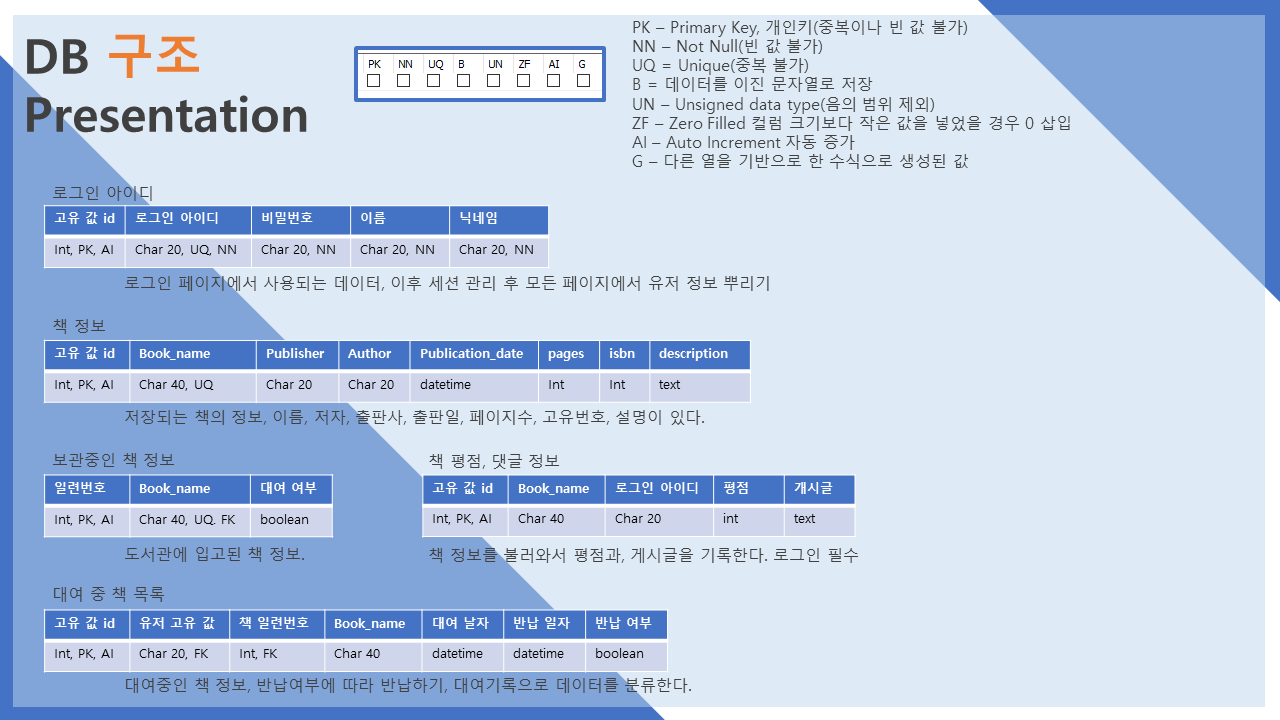
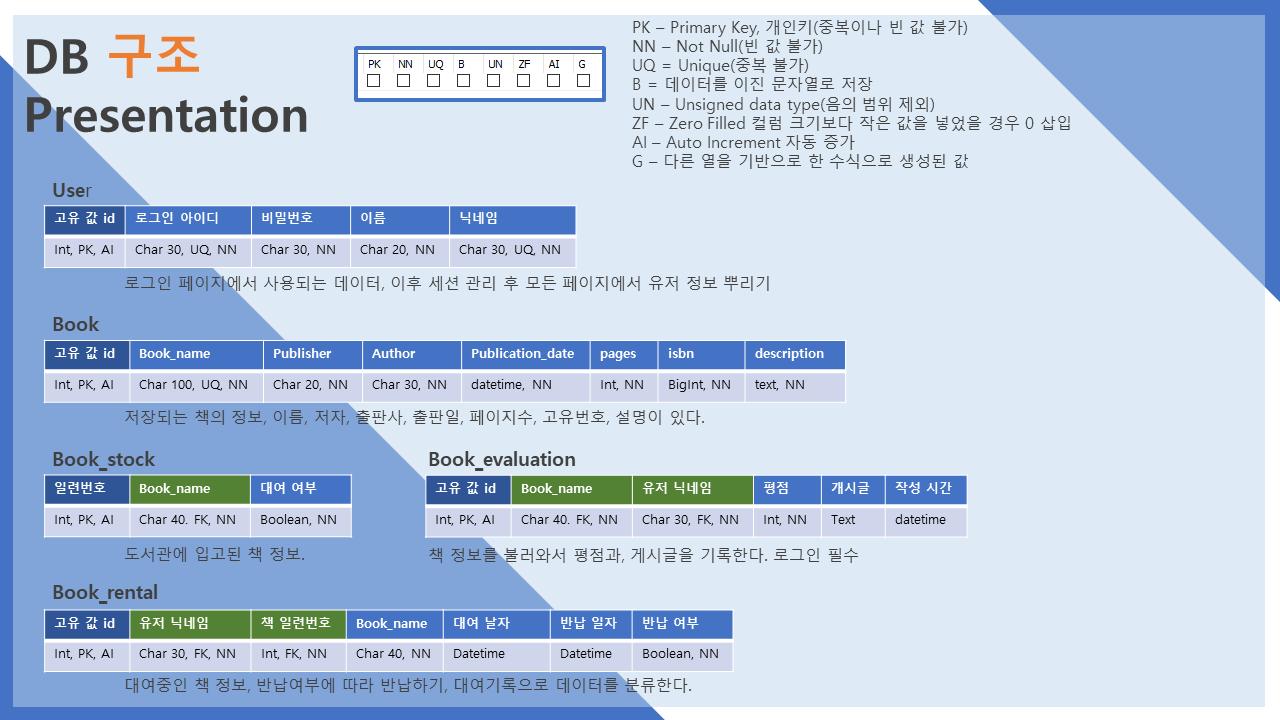
프로젝트 기조 만들기

diff --git a/flask_app/models.py b/flask_app/models.py
@@ -1,0 +1,97 @@
+from db_connect import db
+from datetime import datetime
+
+# 유저 정보
+class User(db.Model):
+    __tablename__ = 'user'
+    id = db.Column(db.Integer, primary_key=True, autoincrement=True)
+    user_id = db.Column(db.String(30), nullable=False, unique=True)
+    user_pw = db.Column(db.String(30), nullable=False)
+    user_name = db.Column(db.String(20), nullable=False)
+    user_nickname = db.Column(db.String(30), nullable=False, unique=True)
+    
+    # 대여_책 외부키
+    bookrental = db.relationship("Book_rental", backref="user")
+    # 책_평가 외부키
+    bookevaluation = db.relationship("Book_evaluation", backref="user")
+    
+    def __init__(self,user_id,user_pw,user_name,user_nickname):
+        self.user_id = user_id
+        self.user_pw = user_pw
+        self.user_name = user_name
+        self.user_nickname = user_nickname
+
+# 책 정보
+class Book(db.Model):
+    __tablename__ = 'book'
+    id = db.Column(db.Integer,  primary_key=True, autoincrement=True)
+    book_name = db.Column(db.String(100), nullable = False, unique=True)
+    book_publisher = db.Column(db.String(40), nullable=False)
+    book_author = db.Column(db.String(30), nullable=False)
+    book_publication_date = db.Column(db.DateTime, nullable=False)
+    book_pages = db.Column(db.Integer, nullable = False)
+    book_isbn = db.Column(db.BigInteger, nullable=False)
+    book_description = db.Column(db.Text(), nullable=False)
+    
+    # 보유 책 외부키
+    bookstock = db.relationship("Book_stock", backref="book")
+    # 책_평가 외부키
+    bookevaluation = db.relationship("Book_evaluation", backref="book")
+    
+    def __init__(self,book_name,book_publisher,book_author,book_publication_date,
+                book_pages, book_isbn, book_description):
+        self.book_name = book_name
+        self.book_publisher = book_publisher
+        self.book_author = book_author
+        self.book_publication_date = book_publication_date
+        self.book_pages = book_pages
+        self.book_isbn = book_isbn
+        self.book_description = book_description
+        
+class Book_stock(db.Model):
+    __tablename__ = 'book_stock'
+    book_serial_number = db.Column(db.Integer, primary_key=True, autoincrement=True)
+    book_name = db.Column(db.String(100), db.ForeignKey("book.book_name"), nullable = False)
+    is_rental = db.Column(db.Boolean, nullable = False)
+
+    # 대여_책 외부키
+    bookrental = db.relationship("Book_rental", backref="book_stock")
+    
+    def __init__(self,book_name,is_rental):
+        self.book_name = book_name
+        self.is_rental = is_rental
+
+class Book_rental(db.Model):
+    __tablename__ = 'book_rental'
+    id = db.Column(db.Integer,  primary_key=True, autoincrement=True)
+    user_nickname = db.Column(db.String(30), db.ForeignKey("user.user_nickname"), 
+                            nullable = False)
+    book_serial_number = db.Column(db.Integer, db.ForeignKey("book_stock.book_serial_number"), 
+                            nullable = False)
+    book_name = db.Column(db.String(40), nullable = False)
+    rental_date = db.Column(db.DateTime, default=datetime.utcnow)
+    return_date = db.Column(db.DateTime)
+    is_return = db.Column(db.Boolean, nullable = False)
+    
+    def __init__(self,user_nickname,book_serial_number,book_name,return_date,is_return):
+        self.user_nickname = user_nickname
+        self.book_serial_number = book_serial_number
+        self.book_name = book_name
+        self.return_date = return_date
+        self.is_return = is_return
+
+class Book_evaluation(db.Model):
+    __tablename__ = 'book_evaluation'
+    id = db.Column(db.Integer, primary_key=True, autoincrement=True)
+    book_name = db.Column(db.String(100), db.ForeignKey("book.book_name"), nullable = False)
+    user_nickname = db.Column(db.String(30), db.ForeignKey("user.user_nickname"), 
+                            nullable = False)
+    book_evaluation = db.Column(db.Integer, nullable = False)
+    evaluation_contente = db.Column(db.Text())
+    evaluation_time = db.Column(db.DateTime, default=datetime.utcnow)
+    
+    def __init__(self,book_name,user_nickname,book_evaluation,evaluation_contente):
+        self.book_name = book_name
+        self.user_nickname = user_nickname
+        self.book_evaluation = book_evaluation
+        self.evaluation_contente = evaluation_contente

diff --git a/flask_app/db_connect.py b/flask_app/db_connect.py
@@ -1,0 +1,2 @@
+from flask_sqlalchemy import SQLAlchemy
+db = SQLAlchemy()

diff --git a/README.md b/README.md
@@ -17,17 +17,46 @@
 
 ## 프로젝트 구성
 
-- 프로젝트 필수 기능
+- 프로젝트 필요 기능
+  - 로그인
+  - 회원가입
+  - 로그아웃
+  - 메인 페이지
+  - 대여하기
+  - 반납하기
+  - 책 소개
+
 - 프로젝트 사용 기술
+  - Flask
+  - Mysql
+  - Jinja2
 
 - 파이썬 패키지 버전
 
 > python.3.8
->
+> certifi            2021.10.8
+> charset-normalizer 2.0.7
+> click              8.0.3
+> colorama           0.4.4
+> Flask              2.0.2
+> Flask-SQLAlchemy   2.5.1
+> greenlet           1.1.2
+> idna               3.3
+> itsdangerous       2.0.1
+> Jinja2             3.0.3
+> MarkupSafe         2.0.1
+> pip                19.2.3
+> requests           2.26.0
+> setuptools         41.2.0
+> SQLAlchemy         1.4.27
+> urllib3            1.26.7
+> Werkzeug           2.0.2
 
 ***
 
 ## 프로젝트 기능 설명
+
+- 아직 아무 기능 없음
 
 ***
 
@@ -45,6 +74,18 @@
 
 ## 프로젝트 팀원 역활
 
+- 팀장 : 이재근
+  - DB 관리 : 이재근
+  - 로그인 세션 관리 : 이재근
+  - 프론트앤드 관리 : 이재근
+  - 데이터 관리 : 이재근
+
 ***
 
 ## 프로젝트 버전
+
+- 0.0.1
+  - DB models 구성
+    - User, Book, Book_stock, Book_rental, Book_evaluation
+
+***
